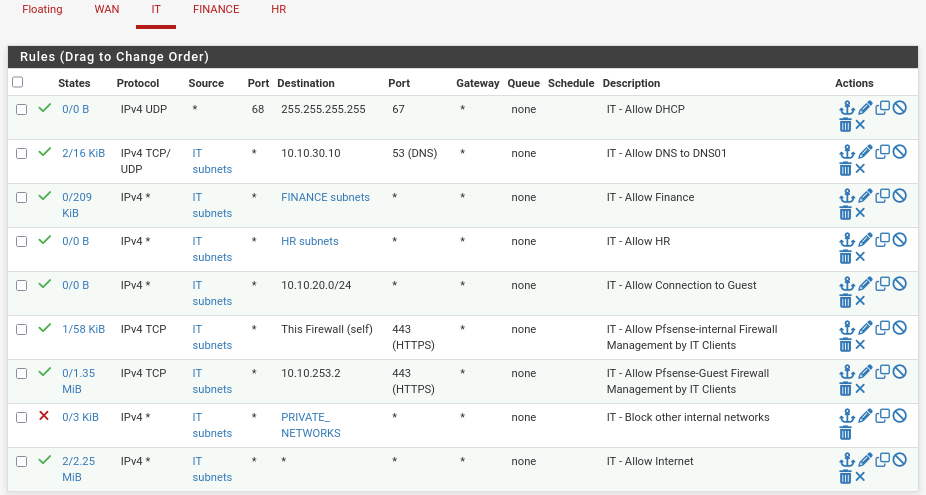
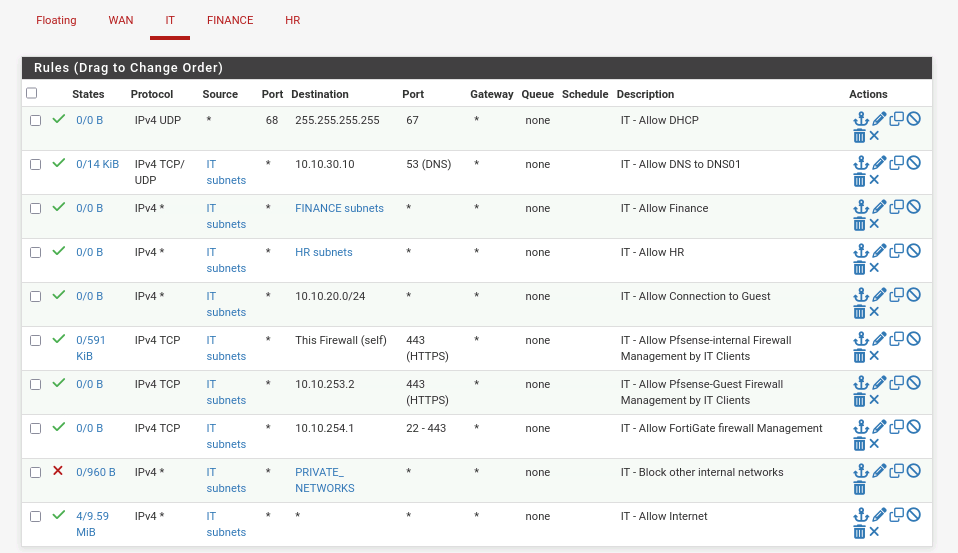
Fortigate Section Added in firewall-policy.md

diff --git a/README.md b/README.md
@@ -190,7 +190,6 @@ Verified policy behavior includes:
 | IT / Finance / HR | DNS01 | Allow required DNS traffic |
 | IT / Finance / HR | Internet | Allow |
 | IT | pfSense-Internal HTTPS GUI | Allow |
-| IT | pfSense-Guest HTTPS GUI (`10.10.253.2:443`) | Allow |
 
 All IT clients are permitted to manage pfSense-Internal over:
 
@@ -208,15 +207,6 @@ pfSense-Guest protects the Guest network.
 Guest clients can reach the Internet but cannot initiate traffic into protected internal networks.
 
 IT is explicitly allowed to reach the Guest network so IT staff can troubleshoot Guest endpoints.
-
-HQ IT can also manage pfSense-Guest remotely at:
-
-```text
-https://10.10.253.2
-TCP/443
-```
-
-This management path is explicitly permitted by both pfSense-Internal and pfSense-Guest.
 
 ### FortiGate
 
@@ -305,10 +295,9 @@ The lab was redesigned from router-based inter-VLAN routing into a firewall-base
 - Isolated Guest from protected internal networks.
 - Allowed IT administrative access to Finance, HR, and Guest.
 - Restricted pfSense-Internal GUI management to IT clients over HTTPS.
-- Added explicit HQ IT management access to pfSense-Guest over HTTPS/TCP 443.
 - Preserved centralized DHCP, DNS, and Internet access.
 
-The **firewall-segmentation milestone is complete**.
+The **firewall-segmentation milestone is now complete!**
 
 ---
 

diff --git a/docs/firewall-policy.md b/docs/firewall-policy.md
@@ -42,6 +42,7 @@ Rules are evaluated top-down.
 | 5 | Allow | IPv4 any | IT subnets | `10.10.20.0/24` | Any | Allow IT to reach Guest for support |
 | 6 | Allow | TCP | IT subnets | This Firewall (self) | 443 | Allow IT clients to manage pfSense-Internal over HTTPS |
 | 7 | Allow | TCP | IT subnets | Guest Network Firewall | 443 | Allow IT clients to manage pfSense-Guest over HTTPS |
+| 7 | Allow | TCP | IT subnets | Fortigate Firewall | 443 | Allow IT clients to manage Fortigate over HTTPS |
 | 8 | Block | IPv4 any | IT subnets | `PRIVATE_NETWORKS` | Any | Block other private/internal networks not explicitly allowed above |
 | 9 | Allow | IPv4 any | IT subnets | Any | Any | Allow Internet/non-private destinations |
 

diff --git a/configs/README.MD b/configs/README.MD
@@ -1,6 +1,5 @@
 # Configuration Files
 
-This directory contains sanitized, human-readable configuration snapshots for the routing and infrastructure services used in the GNS3 Network Security Homelab.
 This directory contains sanitized (sensitive info omitted) configuration snapshots for the routing and infrastructure services used in this homelab.
 
 The purpose of this folder is to keep the important lab configuration version-controlled, readable, and easy to reference during troubleshooting or future rebuilds.

diff --git a/automation/ansible/README.md b/automation/ansible/README.md
@@ -1,0 +1,1 @@
+---- To be worked on! ----

diff --git a/automation/python/README.md b/automation/python/README.md
@@ -1,0 +1,1 @@
+---- To be worked on! ----

diff --git a/monitoring/README.md b/monitoring/README.md
@@ -1,0 +1,1 @@
+---- To be worked on! ----

diff --git a/packet-captures/README.md b/packet-captures/README.md
@@ -1,0 +1,1 @@
+---- To be worked on! ----
